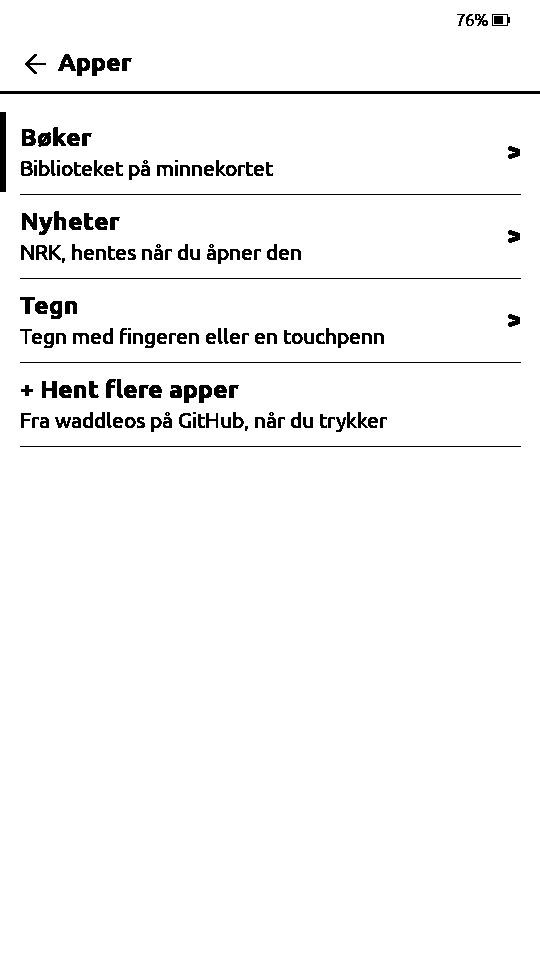
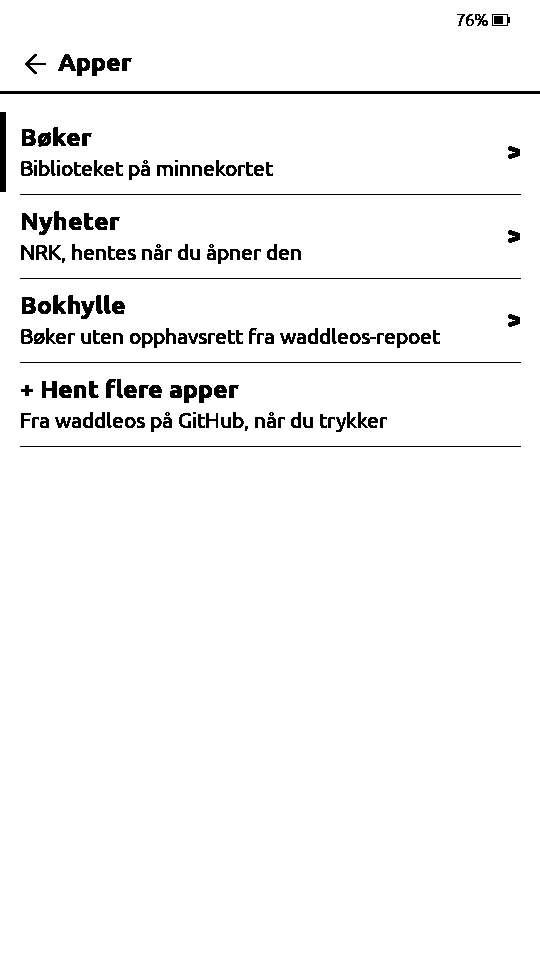
Fjern Tegn
Tegneappen frøs leseren og tegnet dårlig på de kapasitive skjermene, så Arne
vil ikke ha den. En app som ikke lenger er i butikken, kan nå fjernes ved å
holde på den i Apper.

Claude-Session: https://claude.ai/code/session_011r6JE9xx7HU915R5KmGowB

Changed region(s): [[0.0296, 0.3125, 0.3259, 0.375], [0.3556, 0.3438, 0.6222, 0.375], [0.6519, 0.3438, 0.8296, 0.375]]

diff --git a/test/screens/screens.cpp b/test/screens/screens.cpp
@@ -614,9 +614,9 @@ int main(int argc, char** argv) {
     show(settings, "t5-innstillinger");
   }
   {
-    // Apper, with Tegn installed from this checkout's apps/ folder.
+    // Apper, with Bokhylle installed from this checkout's apps/ folder.
     std::filesystem::create_directories(sim::rootDir + "/Apper");
-    std::filesystem::copy("apps/tegn", sim::rootDir + "/Apper/tegn", std::filesystem::copy_options::recursive);
+    std::filesystem::copy("apps/bokhylle", sim::rootDir + "/Apper/bokhylle", std::filesystem::copy_options::recursive);
     AppsActivity apps(renderer, mappedInputManager);
     show(apps, "t5-apper");
   }
@@ -626,7 +626,6 @@ int main(int argc, char** argv) {
   }
   {
     // Bokhylle with three books on the shelf, one already on the card.
-    std::filesystem::copy("apps/bokhylle", sim::rootDir + "/Apper/bokhylle", std::filesystem::copy_options::recursive);
     std::filesystem::create_directories(sim::rootDir + "/web/books");
     std::ofstream(sim::rootDir + "/web/books/index.tsv")
         << "Jane-Austen-Pride-and-Prejudice.epub\tPride and Prejudice\tJane Austen\t512000\n"
@@ -638,15 +637,6 @@ int main(int argc, char** argv) {
     apps::readManifest("bokhylle", shelf);
     AppActivity app(renderer, mappedInputManager, shelf);
     show(app, "t5-bokhylle", [](Activity& screen) { screen.loop(); });
-  }
-  {
-    // Tegn with a drawing in its storage.
-    std::filesystem::create_directories(sim::rootDir + "/Apper/tegn/data");
-    std::ofstream(sim::rootDir + "/Apper/tegn/data/tegning.txt") << "4 0 140 560 140 760 400 760 400 560 140 560\n4 0 120 575 270 430 420 575\n4 0 240 760 240 660 300 660 300 760\n4 0 170 600 220 600 220 640 170 640 170 600\n10 0 470 230 469 238 466 246 462 253 456 259 450 264 442 268 434 269 425 269 417 268 410 264 403 259 397 253 393 246 390 238 390 230 390 221 393 213 397 206 403 200 410 195 417 191 425 190 434 190 442 191 450 195 456 200 462 206 466 213 469 221 470 230\n4 0 485 230 510 230\n4 0 468 268 486 286\n4 0 430 285 430 310\n4 0 391 268 373 286\n4 0 375 230 350 230\n4 0 391 191 373 173\n4 0 430 175 430 150\n4 0 468 191 486 173\n10 0 40 800 140 790 260 805 380 792 500 800";
-    apps::Manifest tegn;
-    apps::readManifest("tegn", tegn);
-    AppActivity app(renderer, mappedInputManager, tegn);
-    show(app, "t5-tegn");
   }
   {
     // Kari, tapped on the map.

diff --git a/src/apps/store/AppsActivity.cpp b/src/apps/store/AppsActivity.cpp
@@ -107,6 +107,25 @@ void AppsActivity::loop() {
     activityManager.goHome();
     return;
   }
+  // Hold a downloaded app to remove it from the card (also one no longer in the store).
+  int x = 0, y = 0;
+  if (mappedInput.wasScreenLongPress(x, y)) {
+    const int builtins = int(apps::builtins().size());
+    for (int r = builtins; r < builtins + int(scripts.size()); r++) {
+      if (rowY[size_t(r)] >= 0 && y >= rowY[size_t(r)] && y < rowY[size_t(r)] + rowH) {
+        apps::uninstall(scripts[size_t(r - builtins)].id);
+        auto left = apps::installed();
+        {
+          RenderLock lock(*this);
+          scripts = std::move(left);
+          focus = 0;
+        }
+        requestUpdate();
+        return;
+      }
+    }
+    return;
+  }
   const int row = listInput(mappedInput, rowY, rowH, count(), focus);
   if (row == -2) requestUpdate();
   if (row >= 0) open(row);

diff --git a/docs/waddle/APPS.md b/docs/waddle/APPS.md
@@ -9,8 +9,8 @@ runtime is in `src/apps/store/`.
 
 - `apps/index.json` in this repo lists the apps, and `apps/<id>/` holds each one.
 - On the device, **Apper → Hent flere apper** fetches the list (only then; nothing
-  is checked by itself). A tap installs or updates an app; holding one you have
-  removes it, with its data.
+  is checked by itself). A tap installs or updates an app; holding one you have,
+  here or in Apper, removes it with its data.
 - Installed apps live on the SD card in `/Apper/<id>/`. Their files are in
   `/Apper/<id>/data/`.
 
@@ -21,7 +21,7 @@ To publish an app: add its folder, add it to `apps/index.json` and merge into
 `index.json`:
 
 ```json
-{"apps": [{"id": "tegn", "name": "Tegn", "description": "…", "version": 1,
+{"apps": [{"id": "bokhylle", "name": "Bokhylle", "description": "…", "version": 1,
            "devices": ["x4pro", "t5"], "files": ["app.json", "main.lua"]}]}
 ```
 
@@ -71,7 +71,6 @@ when the app closes): `get(url)` (body, or nil and why), `download(url, name)`
 
 ## The apps
 
-- **Tegn** (`apps/tegn`): draw with a finger or a passive touch pen.
 - **Bokhylle** (`apps/bokhylle`): the books in `books/` (`index.tsv`: file,
   title, author, bytes, tab-separated), added with `waddle book --hylle
   <checkout>`. Only books without copyright: the repo is public.

diff --git a/docs/waddle/PLAN.md b/docs/waddle/PLAN.md
@@ -107,12 +107,13 @@ connection has a public IP (no CGNAT).
 
 Done: apps in Lua that come from `apps/` in this repo and run on both devices
 (docs/waddle/APPS.md), under Apper (a sixth button on the reader's Hjem, the
-Apper page on the T5). The first is Tegn: draw with a finger or a passive touch
-pen (both screens are capacitive: no pressure, finger precision). Bokhylle
-lists `books/` in this repo (books without copyright, added with `waddle book
+Apper page on the T5). Bokhylle lists `books/` in this repo (books without copyright, added with `waddle book
 --hylle <checkout>`) and fetches one to /Books with a tap.
 
 ## Decided against
+
+- Tegn (drawing app): froze the reader and drew poorly on these capacitive
+  screens; removed.
 
 - Audio on the reader (no audio hardware, BLE only, no A2DP).
 - Estimated battery use per part (only the total is measurable).

diff --git a/docs/waddle/TESTING.md b/docs/waddle/TESTING.md
@@ -252,10 +252,8 @@ gateway's HELLO. Install the server:
 Script apps (docs/waddle/APPS.md):
 - [ ] Reader Hjem has a sixth button (Apper); the T5's Apper shows Bøker, Nyheter
       and "+ Hent flere apper".
-- [ ] Hent flere apper on Wi-Fi lists Tegn; a tap installs it, and it opens.
-- [ ] Tegn: lines follow the finger or a touch pen without long delay, Tykk,
-      Visk and Tøm (tap twice) work, and the drawing is there after a restart.
-- [ ] Holding Tegn in Hent apper removes it.
+- [ ] Hent flere apper on Wi-Fi lists Bokhylle; a tap installs it, and it opens.
+- [ ] Holding an app in Apper (or in Hent apper) removes it from the card.
 - [ ] Free heap in `waddle mesh check` (T5) is the same after opening and
       closing an app a few times.
 - [ ] `waddle book --hylle <checkout> <Gutenberg link>`, commit and push: Bokhylle
